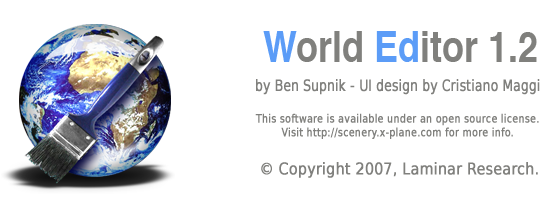
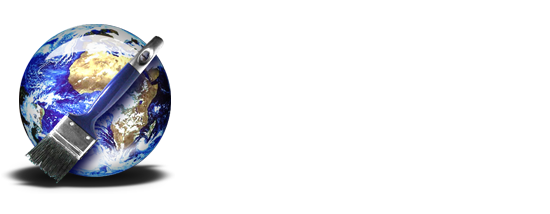
WED version bump to 1.3a for private beta testing of gateway. about box changed to text to be quicker to mod.  fugly but works.

diff --git a/src/WEDWindows/WED_AboutBox.cpp b/src/WEDWindows/WED_AboutBox.cpp
@@ -58,10 +58,30 @@ void		WED_AboutBox::Draw(GUI_GraphState * state)
 	GUI_Pane::GetBounds(bounds);
 	GUI_DrawCentered(state, "about.png", bounds, 0, 0, tile_sel, NULL, NULL);
 
-	char buf[1024];
-
 	float f = GUI_GetLineHeight(font_UI_Basic);
 	float color[4] = { 1.0, 1.0, 1.0, 0.7 };
+
+	const char * main_text[] = {
+		"WorldEditor 1.3",
+		"©Copyright 2007-2014, Laminar Research.",
+		"",
+		"This software is available under an open license.",
+		"Visit http://developer.x-plane.com/code/ for more info.",
+		"",
+		"Code by Ted Greene, Ben Supnik and Tyler Young.",
+		"Original graphics by Christiano Maggi.",
+		0
+		
+	};
+	
+	int n = 0;
+	while(main_text[n])
+	{
+		GUI_FontDraw(state, font_UI_Basic, color, bounds[0] * 0.65 + bounds[2] * 0.35, bounds[3] - 30 - f * n, main_text[n]);
+		++n;
+	}
+
+	char buf[1024];
 
 	sprintf(buf,"WorldEditor " WED_VERSION_STRING ", compiled on "__DATE__" "__TIME__);
 
@@ -79,7 +99,7 @@ void		WED_AboutBox::Draw(GUI_GraphState * state)
 		"Thanks to Janos Laube, Mathias Roedel, Theodore \"Ted\" Greene and everyone else",
 		"who has contributed to WorldEditor's development.",
 		0 };
-	int n = 0;
+	 n = 0;
 	while(credits[n])
 	{
 		GUI_FontDrawScaled(

diff --git a/src/WEDWindows/WED_StartWindow.cpp b/src/WEDWindows/WED_StartWindow.cpp
@@ -210,7 +210,33 @@ void	WED_StartWindow::Draw(GUI_GraphState * state)
 	GUI_DrawStretched(state,"gradient.png", me, kTileAll);
 
 	if (!mScroller->IsVisible())
+	{
 		GUI_DrawCentered(state,"startup_bkgnd.png", me, 0, 1, kTileAll, NULL, NULL);
+
+		float f = GUI_GetLineHeight(font_UI_Basic);
+		float color[4] = { 1.0, 1.0, 1.0, 0.7 };
+
+		const char * main_text[] = {
+			"WorldEditor 1.3",
+			"©Copyright 2007-2014, Laminar Research.",
+			"",
+			"This software is available under an open license.",
+			"Visit http://developer.x-plane.com/code/ for more info.",
+			"",
+			"Code by Ted Greene, Ben Supnik and Tyler Young.",
+			"Original graphics by Christiano Maggi.",
+			0
+			
+		};
+		
+		int n = 0;
+		while(main_text[n])
+		{
+			GUI_FontDraw(state, font_UI_Basic, color, me[0] * 0.5 + me[2] * 0.5, me[3] - 30 - f * n, main_text[n]);
+			++n;
+		}
+
+	}
 
 	if (mCaption.empty())
 	{

diff --git a/src/WEDCore/WED_Version.h b/src/WEDCore/WED_Version.h
@@ -24,9 +24,9 @@
 #ifndef WED_Version_H
 #define WED_Version_H
 
-#define	WED_VERSION			 1.2.1r3
-#define	WED_VERSION_STRING	"1.2.1r3"
-#define	WED_VERSION_RES		"1.2.1r3"
-#define	WED_VERSION_BIN		1,2,1,4
+#define	WED_VERSION			 1.3.0a1
+#define	WED_VERSION_STRING	"1.3.0a1"
+#define	WED_VERSION_RES		"1.3.0a1"
+#define	WED_VERSION_BIN		1,3,0,1
 
 #endif /* WED_Version_H */
